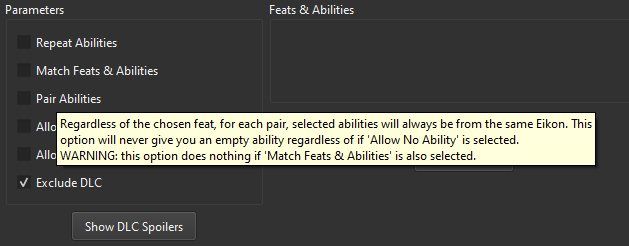
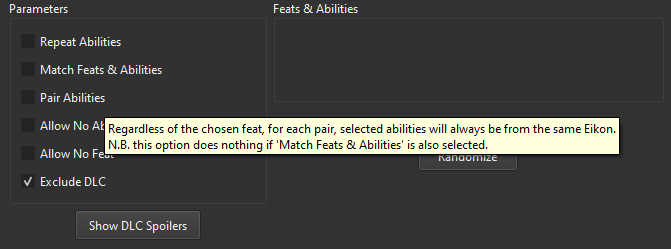
Fixed bug with paired abilities parameter

diff --git a/pyqt_gui.py b/pyqt_gui.py
@@ -64,7 +64,7 @@ class MainWindow(QMainWindow):
         labels = ["Repeat Abilities", "Match Feats && Abilities", "Pair Abilities", "Allow No Ability", "Allow No Feat", "Exclude DLC"]
         tooltips = ["Every ability can appear more than once. If you're unlucky, this could result in every ability being the same.",
                     "Example: if one of your feats was Bahamut, it will only choose between Bahamut's abilities to be paired with \nthat feat. If the feat is empty, this will give you two completely random abilites instead.",
-                    "Regardless of the chosen feat, for each pair, selected abilities will always be from the same Eikon. This \noption will never give you an empty ability regardless of if 'Allow No Ability' is selected. \nWARNING: this option does nothing if 'Match Feats & Abilities' is also selected.",
+                    "Regardless of the chosen feat, for each pair, selected abilities will always be from the same Eikon. \nN.B. this option does nothing if 'Match Feats & Abilities' is also selected.",
                     "Check this if you want it to be possible for any given ability to be empty.",
                     "Check this if you want it to be possible for any given feat to be empty.",
                     "Eikons only available through DLC will not be considered."]
@@ -167,6 +167,7 @@ class MainWindow(QMainWindow):
                                                 self.exclusion_criteria.get("pair_abilities"))
             keys = list(results.keys())
             values = list(results.values())
+            print(results)
 
             i = 0
             sets_labels = sample(self.layout.itemAt(11).widget().findChildren(QLabel), 3)

diff --git a/loadout_randomizer.py b/loadout_randomizer.py
@@ -85,7 +85,13 @@ class LoadoutRandomizer():
                 eikon = None
             
             if 'paired_abilities' in locals():
-                loadout[feat] = paired_abilities
+                if feat == "" and feat in list(loadout.keys()):
+                    if " " in list(loadout.keys()):
+                        loadout["EMPTY"] = paired_abilities
+                    else:
+                        loadout[" "] = paired_abilities
+                else:
+                    loadout[feat] = paired_abilities
             else:
                 ability_one = self.random_ability(replacement, pair_eikon=eikon)
                 ability_two = self.random_ability(replacement, pair_eikon=eikon)
@@ -131,7 +137,13 @@ class LoadoutRandomizer():
                     ability_set = given_eikon_details
         # else if no eikon provided, provided two abilities from same random eikon if requested
         elif pair is True:
-            ability_set = choice(list(self.temp_ability_dict.items()))
+            ability_set = ["", [""]]
+            while len(ability_set[1]) < 2:
+                ability_set = choice(list(self.temp_ability_dict.items()))
+                
+                if len(self.temp_ability_dict) <= 1 and len(ability_set[1]) < 2:
+                    ability_set = ["", ["", "", "", ""]]
+                    break
             
             # check for replacement and ability sets with less than two abilities left
             if (replacement is False) and (len(ability_set[1]) > 1):
